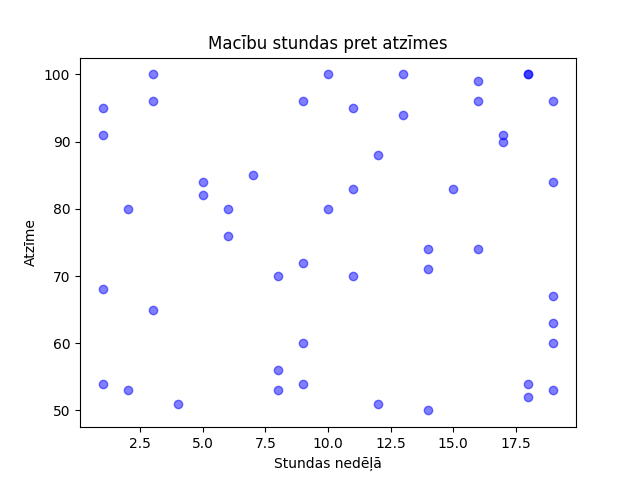
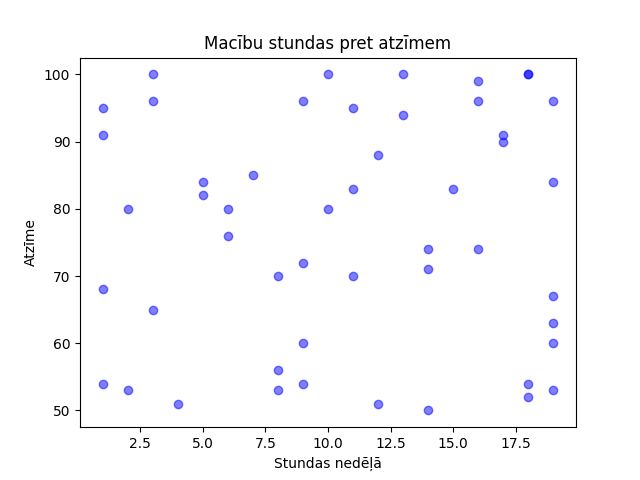
changes lol

Changed region(s): [[0.3125, 0.0625, 0.7188, 0.125]]

diff --git a/app.py b/app.py
@@ -5,9 +5,7 @@ import matplotlib.pyplot as plt
 from peewee import *
 
 app = Flask(__name__)
-matplotlib.use("Agg")
-
-db = SqliteDatabase("students.db")
+dbinfo = SqliteDatabase("students.db")
 
 class Students(Model):
     name = CharField()
@@ -17,26 +15,28 @@ class Students(Model):
     hours_per_week = IntegerField()
 
     class Meta:
-        database = db
+        database = dbinfo
 
-db.connect()
-db.create_tables([Students])
+dbinfo.connect()
+dbinfo.create_tables([Students])
 
 @app.route("/")
 def home():
     return render_template("home.html")
 
+matplotlib.use("Agg")
 @app.route("/plots", methods=["GET", "POST"])
 def plots():
     students = Students.select()
+    # ja nav info -> upload
     if not students:
         return redirect(url_for("upload"))
     
-    df = pd.DataFrame([s.__data__ for s in students])
+    info = pd.DataFrame([s.__data__ for s in students])
 
     # atzīmju sadalījums
     plt.figure()
-    plt.hist(df["grade"], bins=10, edgecolor="black", alpha=0.7)
+    plt.hist(info["grade"], bins=10, edgecolor="black", alpha=0.7)
     plt.title("Atzīmju sadalījums")
     plt.xlabel("Atzīme")
     plt.ylabel("Biežums")
@@ -45,7 +45,7 @@ def plots():
     
     # mācību stundas vs. atzīme
     plt.figure()
-    plt.scatter(df["hours_per_week"], df["grade"], c="blue", alpha=0.5)
+    plt.scatter(info["hours_per_week"], info["grade"], c="blue", alpha=0.5)
     plt.title("Macību stundas pret atzīmem")
     plt.xlabel("Stundas nedēļā")
     plt.ylabel("Atzīme")
@@ -54,7 +54,7 @@ def plots():
     
     # atzīmju sadalījums pēc priekšmeta
     plt.figure()
-    df.boxplot(column="grade", by="subject", grid=False)
+    info.boxplot(column="grade", by="subject", grid=False)
     plt.title("Atzīmju sadalījums pēc priekšmeta")
     plt.xlabel("Priekšmets")
     plt.ylabel("Atzīme")
@@ -64,7 +64,7 @@ def plots():
     
     # vidējais vērtējums par priekšmetu
     plt.figure()
-    df.groupby("subject")["grade"].mean().plot(kind="bar", color="green", edgecolor="black")
+    info.groupby("subject")["grade"].mean().plot(kind="bar", color="green", edgecolor="black")
     plt.title("Vidējais vērtējums par priekšmetu")
     plt.xlabel("Priekšmets")
     plt.ylabel("Vidējais vērtējums")
@@ -80,10 +80,12 @@ def plots():
 def upload():
     if request.method == "POST":
         file = request.files["file"]
+        # ja ir fails tad sakt informacijas pievienosanu
         if file:
-            df = pd.read_csv(file)
+            info = pd.read_csv(file)
             Students.delete().execute()
-            for _, row in df.iterrows():
+            for _, row in info.iterrows():
+                # pievienot informaciju datubaze!!!
                 Students.create(
                     name = row["name"],
                     age = row["age"],
@@ -95,4 +97,5 @@ def upload():
     return render_template("upload.html")
 
 if __name__ == "__main__":
+    # sakt aplikaciju
     app.run(debug=True, use_reloader=False)
